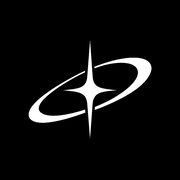
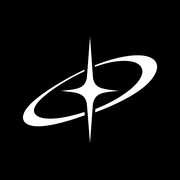
Rename the brand to Arkeos and match the new lockup
Use the corrected wordmark, a sharp vector favicon, tighter homepage centering, and docs copy from the product notes.

Changed region(s): [[0.1111, 0.1944, 0.8889, 0.7778]]

diff --git a/src/lib/content.ts b/src/lib/content.ts
@@ -1,30 +1,42 @@
 import { site } from "@/lib/site";
 
+export const aboutLead =
+  "Arkeos is the one-stop place for TCGs on Solana. It tracks on-chain slabs, live machine math, and under-market listings.";
+
+export const aboutNotes = [
+  "No wallet: gacha machines and under-market listings. Wallet connected: your full binder, cash versus paper, cost, chart, and rip history.",
+  "Cash is what you can sell for tonight — buyback or the best live bid. Paper is insured value and comps.",
+] as const;
+
 export const features = [
   {
-    title: "Live Gacha EV.",
-    body: "Real-time, inventory-based EV on every gacha machine — recalculated as pulls deplete the pool, not set once at launch.",
+    title: "Gacha tracker.",
+    body: "Public. Pack price, cash EV, tile EV, profit odds, hit rate, and how top-heavy a machine is — independent of the shop's own tile.",
   },
   {
-    title: "True Profit Odds.",
-    body: "The exact probability a given pull returns more than you paid for it.",
+    title: "Under-market watcher.",
+    body: "Public. Live asks against insured value and against buyback, with the venue and a link to the listing.",
   },
   {
-    title: "Arbitrage Engine.",
-    body: "Flags the moment a secondary listing drops below a protocol's own buyback price.",
+    title: "Binder.",
+    body: "Every Solana slab in a connected wallet. Each row shows art, name, grade, issuer, vault, whether it's listed, paper, cash, and cost when we know it. Open a slab for chart history, pop, and more. The header shows cash total, paper total, and the gap. Filter by issuer, listed, under-bid, value, and TCG.",
   },
   {
-    title: "True Liquid Net Worth.",
-    body: "Your collection priced at guaranteed, instant cash-out value — then routed to the best venue to exit it.",
+    title: "Chart.",
+    body: "Cash over time, with paper as an option. 1D, 7D, 1M, and max. The series starts when snapshots begin.",
   },
   {
-    title: "Onchain, not self-reported.",
-    body: "Every number is pulled directly from Solana RPC data, not a platform's own dashboard.",
+    title: "History.",
+    body: "Rips, buys, sells, and buybacks, with profit and loss against cost.",
+  },
+  {
+    title: "Share.",
+    body: "Export an image for X — a binder, a PnL chart, pack rips, or one slab's profit history.",
   },
 ] as const;
 
-export const aboutBody =
-  "Arkeos Terminal is an institutional-grade execution intelligence platform for tokenized TCGs and RWA collectibles on Solana. It indexes raw Solana RPC data directly, turning onchain activity into real-time EV, arbitrage, and portfolio data.";
+export const later =
+  "Themed binders and showcases. Set-style progress where it maps to real inventory. More Solana issuers, then Polygon and Base. A per-card price page. Trade math. CSV export. Alerts when cash EV flips or an ask goes under the bid.";
 
 export type LegalBlock = {
   heading: string;
@@ -38,39 +50,39 @@ export const riskDisclaimer: LegalBlock = {
   updated: site.lastUpdated,
   sections: [
     {
-      title: "1. Arkeos Terminal Is Not an Operator",
+      title: "1. Arkeos Is Not an Operator",
       body: [
-        `Arkeos Terminal ("Arkeos," "we," "us") is a data and analytics platform. We do not operate, control, custody, or issue any gacha machine, trading card pack, marketplace listing, or vault referenced on the Terminal. All such products are operated by independent third-party platforms (including, without limitation, Collector Crypt, Beezle, and other Solana-based protocols and marketplaces). Arkeos indexes publicly available onchain data from these platforms; we are not a party to any transaction you make on them.`,
+        `Arkeos ("we," "us") is a data and analytics platform. We do not operate, control, custody, or issue any gacha machine, trading card pack, marketplace listing, or vault referenced on Arkeos. All such products are operated by independent third-party platforms (including, without limitation, Collector Crypt, Beezle, and other Solana-based protocols and marketplaces). Arkeos indexes publicly available onchain data from these platforms; we are not a party to any transaction you make on them.`,
       ],
     },
     {
       title: "2. Data Is Informational Only — Not a Guarantee",
       body: [
-        `Expected value (EV), "hot"/"cold" machine flags, profit odds, arbitrage alerts, and net worth figures shown on the Terminal are statistical calculations derived from onchain data at a point in time. They describe probabilistic averages, not predictions or guarantees for any individual pull, trade, or sale. A machine flagged as positive-EV can still return a result worth less than what you paid — that is the nature of probability, not an error in our data. Past figures, including historical EV or "hot" streaks, are not indicative of future or individual outcomes. We make reasonable efforts to keep data accurate and current but do not warrant that any figure is complete, error-free, or reflects real-time onchain state at the exact moment you act on it. You are solely responsible for verifying information independently before making any purchase, trade, or sale on a third-party platform.`,
+        `Expected value (EV), "hot"/"cold" machine flags, profit odds, arbitrage alerts, and net worth figures shown on Arkeos are statistical calculations derived from onchain data at a point in time. They describe probabilistic averages, not predictions or guarantees for any individual pull, trade, or sale. A machine flagged as positive-EV can still return a result worth less than what you paid — that is the nature of probability, not an error in our data. Past figures, including historical EV or "hot" streaks, are not indicative of future or individual outcomes. We make reasonable efforts to keep data accurate and current but do not warrant that any figure is complete, error-free, or reflects real-time onchain state at the exact moment you act on it. You are solely responsible for verifying information independently before making any purchase, trade, or sale on a third-party platform.`,
       ],
     },
     {
       title: "3. Gacha Mechanics Involve Randomness and Real Financial Risk",
       body: [
-        "Opening a tokenized pack or gacha machine is a randomized mechanic. You may receive an item worth significantly less than the amount you paid. No feature of the Terminal — including EV tracking, profit odds, or arbitrage detection — eliminates this risk or guarantees a profitable outcome. Only spend what you can afford to lose.",
+        "Opening a tokenized pack or gacha machine is a randomized mechanic. You may receive an item worth significantly less than the amount you paid. No feature of Arkeos — including EV tracking, profit odds, or arbitrage detection — eliminates this risk or guarantees a profitable outcome. Only spend what you can afford to lose.",
       ],
     },
     {
       title: "4. Not Financial, Investment, or Legal Advice",
       body: [
-        "Nothing on Arkeos Terminal constitutes financial, investment, tax, gambling, or legal advice. We do not recommend that you buy, sell, hold, or open any specific pack, card, or asset. You should make your own independent decisions and consult a qualified professional where appropriate.",
+        "Nothing on Arkeos constitutes financial, investment, tax, gambling, or legal advice. We do not recommend that you buy, sell, hold, or open any specific pack, card, or asset. You should make your own independent decisions and consult a qualified professional where appropriate.",
       ],
     },
     {
       title: "5. Third-Party Platforms and Assets",
       body: [
-        "We have no control over, and accept no responsibility for, the solvency, security, accuracy, uptime, or conduct of any third-party platform indexed by the Terminal, including their buyback commitments, vaulting arrangements, or ability to fulfill redemptions. Any dispute arising from a transaction on a third-party platform is between you and that platform.",
+        "We have no control over, and accept no responsibility for, the solvency, security, accuracy, uptime, or conduct of any third-party platform indexed by Arkeos, including their buyback commitments, vaulting arrangements, or ability to fulfill redemptions. Any dispute arising from a transaction on a third-party platform is between you and that platform.",
       ],
     },
     {
       title: "6. Eligibility and Jurisdiction",
       body: [
-        "You must meet the minimum legal age in your jurisdiction to use the Terminal and to participate in gacha, trading card, or collectible mechanics on any third-party platform. Gacha and loot-box-style mechanics are subject to varying, evolving regulation depending on your country or region. It is your responsibility to determine whether your use of the Terminal and any third-party platform is lawful where you live. Arkeos does not verify jurisdiction-specific legality on your behalf and may restrict access in regions where we determine such restriction is appropriate.",
+        "You must meet the minimum legal age in your jurisdiction to use Arkeos and to participate in gacha, trading card, or collectible mechanics on any third-party platform. Gacha and loot-box-style mechanics are subject to varying, evolving regulation depending on your country or region. It is your responsibility to determine whether your use of Arkeos and any third-party platform is lawful where you live. Arkeos does not verify jurisdiction-specific legality on your behalf and may restrict access in regions where we determine such restriction is appropriate.",
       ],
     },
     {
@@ -85,18 +97,18 @@ export const riskDisclaimer: LegalBlock = {
 export const termsOfService: LegalBlock = {
   heading: "Terms of Service",
   updated: site.lastUpdated,
-  intro: `By accessing or using Arkeos Terminal ("Arkeos," "we," "us," "the Terminal"), you agree to these Terms. If you don't agree, don't use the Terminal.`,
+  intro: `By accessing or using Arkeos ("we," "us"), you agree to these Terms. If you don't agree, don't use Arkeos.`,
   sections: [
     {
       title: "1. What Arkeos Is",
       body: [
-        "Arkeos Terminal is a data and analytics platform for tokenized trading cards and collectibles on Solana. We index publicly available onchain data to surface EV, arbitrage, and portfolio information. We do not operate any gacha machine, marketplace, or vault — those are run by independent third-party platforms. See our Risk Disclaimer for more on this distinction and on data limitations.",
+        "Arkeos is a data and analytics platform for tokenized trading cards and collectibles on Solana. We index publicly available onchain data to surface EV, arbitrage, and portfolio information. We do not operate any gacha machine, marketplace, or vault — those are run by independent third-party platforms. See our Risk Disclaimer for more on this distinction and on data limitations.",
       ],
     },
     {
       title: "2. Eligibility",
       body: [
-        "You must be of legal age in your jurisdiction to use the Terminal, and your use must comply with local law. We may restrict access in regions where we determine it's appropriate to do so.",
+        "You must be of legal age in your jurisdiction to use Arkeos, and your use must comply with local law. We may restrict access in regions where we determine it's appropriate to do so.",
       ],
     },
     {
@@ -108,31 +120,31 @@ export const termsOfService: LegalBlock = {
     {
       title: "4. Acceptable Use",
       body: [
-        "Don't: scrape or abuse the Terminal beyond normal use, attempt to reverse-engineer our systems, interfere with the Terminal's operation, or use it for unlawful purposes. We may suspend or terminate access for violations.",
+        "Don't: scrape or abuse Arkeos beyond normal use, attempt to reverse-engineer our systems, interfere with Arkeos's operation, or use it for unlawful purposes. We may suspend or terminate access for violations.",
       ],
     },
     {
       title: "5. No Financial or Investment Advice",
       body: [
-        "Nothing on the Terminal is financial, investment, tax, gambling, or legal advice. See our Risk Disclaimer for full detail. You are responsible for your own decisions on any third-party platform.",
+        "Nothing on Arkeos is financial, investment, tax, gambling, or legal advice. See our Risk Disclaimer for full detail. You are responsible for your own decisions on any third-party platform.",
       ],
     },
     {
       title: "6. Intellectual Property",
       body: [
-        "The Terminal's design, code, and content are owned by Arkeos or our licensors. You may not copy, resell, or redistribute the Terminal or its data feeds without our written permission.",
+        "Arkeos's design, code, and content are owned by Arkeos or our licensors. You may not copy, resell, or redistribute Arkeos or its data feeds without our written permission.",
       ],
     },
     {
       title: "7. Disclaimer of Warranties",
       body: [
-        'The Terminal is provided "as is." We don\'t guarantee the Terminal, or the data it displays, will be accurate, uninterrupted, or error-free.',
+        'Arkeos is provided "as is." We don\'t guarantee Arkeos, or the data it displays, will be accurate, uninterrupted, or error-free.',
       ],
     },
     {
       title: "8. Limitation of Liability",
       body: [
-        "To the maximum extent permitted by law, Arkeos is not liable for indirect, incidental, or consequential damages arising from your use of the Terminal, including losses from decisions made on third-party platforms based on data shown here.",
+        "To the maximum extent permitted by law, Arkeos is not liable for indirect, incidental, or consequential damages arising from your use of Arkeos, including losses from decisions made on third-party platforms based on data shown here.",
       ],
     },
     {
@@ -156,7 +168,7 @@ export const privacyPolicy: LegalBlock = {
       title: "1. What We Collect",
       body: [
         "Waitlist signup: your email address, via our waitlist provider (Loops.so).",
-        "Wallet-based access (at full launch): your public wallet address, via Supabase, to authenticate access to the Terminal. We never ask for or store your private keys or seed phrase.",
+        "Wallet-based access (at full launch): your public wallet address, via Supabase, to authenticate access to Arkeos. We never ask for or store your private keys or seed phrase.",
         "Basic usage data: standard web logs and analytics (e.g. pages visited, device/browser type) collected through our hosting provider (Vercel) and any analytics tools we add.",
       ],
     },
@@ -169,13 +181,13 @@ export const privacyPolicy: LegalBlock = {
     {
       title: "3. How We Use It",
       body: [
-        "To send waitlist and product updates, manage access to the Terminal, understand how the product is used, and improve it. We don't sell your personal data.",
+        "To send waitlist and product updates, manage access to Arkeos, understand how the product is used, and improve it. We don't sell your personal data.",
       ],
     },
     {
       title: "4. Third-Party Processors",
       body: [
-        "We use third-party services to operate the Terminal, including Loops.so (waitlist/email), Supabase (authentication), and Vercel (hosting). Each processes data under their own privacy terms in addition to this policy.",
+        "We use third-party services to operate Arkeos, including Loops.so (waitlist/email), Supabase (authentication), and Vercel (hosting). Each processes data under their own privacy terms in addition to this policy.",
       ],
     },
     {
@@ -187,7 +199,7 @@ export const privacyPolicy: LegalBlock = {
     {
       title: "6. Data Retention",
       body: [
-        "We keep your data for as long as needed to provide the Terminal and for legitimate business purposes, or until you ask us to delete it.",
+        "We keep your data for as long as needed to provide Arkeos and for legitimate business purposes, or until you ask us to delete it.",
       ],
     },
     {

diff --git a/src/routes/docs/index.tsx b/src/routes/docs/index.tsx
@@ -1,6 +1,6 @@
 import { createFileRoute } from "@tanstack/react-router";
 import { SectionLabel } from "@/components/docs-shell";
-import { aboutBody, features } from "@/lib/content";
+import { aboutLead, aboutNotes, features, later } from "@/lib/content";
 
 export const Route = createFileRoute("/docs/")({ component: DocsOverview });
 
@@ -8,10 +8,13 @@ function DocsOverview() {
   return (
     <article className="mx-auto max-w-2xl">
       <SectionLabel>About</SectionLabel>
-      <h1 className="text-3xl font-medium tracking-tight text-fg sm:text-4xl">
-        Arkeos Terminal
-      </h1>
-      <p className="mt-6 text-sm leading-relaxed text-muted sm:text-[15px]">{aboutBody}</p>
+      <h1 className="text-3xl font-medium tracking-tight text-fg sm:text-4xl">Arkeos</h1>
+      <p className="mt-6 text-sm leading-relaxed text-muted sm:text-[15px]">{aboutLead}</p>
+      {aboutNotes.map((note) => (
+        <p key={note} className="mt-4 text-sm leading-relaxed text-muted sm:text-[15px]">
+          {note}
+        </p>
+      ))}
 
       <div className="mt-14">
         <SectionLabel>Features</SectionLabel>
@@ -22,6 +25,11 @@ function DocsOverview() {
             </li>
           ))}
         </ul>
+      </div>
+
+      <div className="mt-14">
+        <SectionLabel>Later</SectionLabel>
+        <p className="mt-4 text-sm leading-relaxed text-muted sm:text-[15px]">{later}</p>
       </div>
     </article>
   );

diff --git a/src/components/docs-shell.tsx b/src/components/docs-shell.tsx
@@ -16,8 +16,8 @@ export function DocsShell({ children }: { children: React.ReactNode }) {
       <div className="pointer-events-none absolute inset-0 glow-field" />
       <div className="relative mx-auto flex w-full max-w-6xl flex-col gap-4 px-4 py-4 sm:px-6 sm:py-6 lg:flex-row lg:items-start lg:gap-5 lg:px-8 lg:py-8">
         <aside className="card-surface flex w-full shrink-0 flex-col gap-6 rounded-card p-5 sm:p-6 lg:sticky lg:top-8 lg:h-[calc(100dvh-4rem)] lg:w-64 lg:gap-8 lg:p-6">
-          <Link to="/" className="self-start" aria-label="Arkeos Terminal home">
-            <BrandMark className="h-10 w-auto" />
+          <Link to="/" className="mb-2 ml-5 mt-4 self-start sm:ml-6 sm:mt-5" aria-label="Arkeos home">
+            <BrandMark className="h-12 w-auto" />
           </Link>
 
           <nav aria-label="Docs" className="flex flex-col gap-1">

diff --git a/src/components/landing.tsx b/src/components/landing.tsx
@@ -19,11 +19,11 @@ export function Landing() {
       </header>
 
       <section className="relative z-10 flex flex-1 flex-col items-center justify-center px-6 pb-24 pt-8">
-        <div className="hero-enter">
+        <div className="hero-enter flex w-full justify-center">
           <HeroLockup />
         </div>
 
-        <h1 className="hero-enter hero-enter-d1 mt-12 text-center text-[2.35rem] font-medium leading-tight tracking-tight text-fg sm:mt-14 sm:text-5xl">
+        <h1 className="hero-enter hero-enter-d1 mt-8 text-center text-[2.35rem] font-medium leading-tight tracking-tight text-fg sm:mt-10 sm:text-5xl">
           Coming soon
         </h1>
         <p className="hero-enter hero-enter-d2 mt-5 text-center text-sm leading-relaxed text-muted sm:text-[15px]">

diff --git a/src/routes/docs/updates.tsx b/src/routes/docs/updates.tsx
@@ -10,7 +10,7 @@ function DocsUpdates() {
       <h1 className="text-3xl font-medium tracking-tight text-fg sm:text-4xl">Launch log</h1>
       <p className="mt-6 text-sm leading-relaxed text-muted sm:text-[15px]">
         No public updates yet. Waitlist members hear first — join from the home page and
-        we'll email you when the Terminal opens.
+        we'll email you when Arkeos opens.
       </p>
     </article>
   );

diff --git a/src/routes/docs.tsx b/src/routes/docs.tsx
@@ -9,7 +9,7 @@ export const Route = createFileRoute("/docs")({
       { title: `Docs — ${site.name}` },
       {
         name: "description",
-        content: "About Arkeos Terminal, product updates, and legal.",
+        content: "About Arkeos, product updates, and legal.",
       },
     ],
   }),

diff --git a/src/components/brand-mark.tsx b/src/components/brand-mark.tsx
@@ -17,7 +17,7 @@ export function HeroLockup() {
     <img
       src="/wordmark.png"
       alt="Arkeos"
-      className="h-auto w-[min(100%,34rem)] object-contain"
+      className="mx-auto block h-auto w-[min(88vw,26rem)] object-contain"
       draggable={false}
     />
   );

diff --git a/src/lib/site.ts b/src/lib/site.ts
@@ -7,7 +7,7 @@
 export const LOOPS_FORM_ENDPOINT = "https://app.loops.so/api/newsletter-form/cmrpwh87403lq0j12kw6wenco";
 
 export const site = {
-  name: "Arkeos Terminal",
+  name: "Arkeos",
   shortName: "Arkeos",
   url: "https://www.arkeos.xyz",
   description:

diff --git a/README.md b/README.md
@@ -1,4 +1,4 @@
-# Arkeos Terminal
+# Arkeos
 
 Coming-soon waitlist and docs for [arkeos.xyz](https://arkeos.xyz).
 
